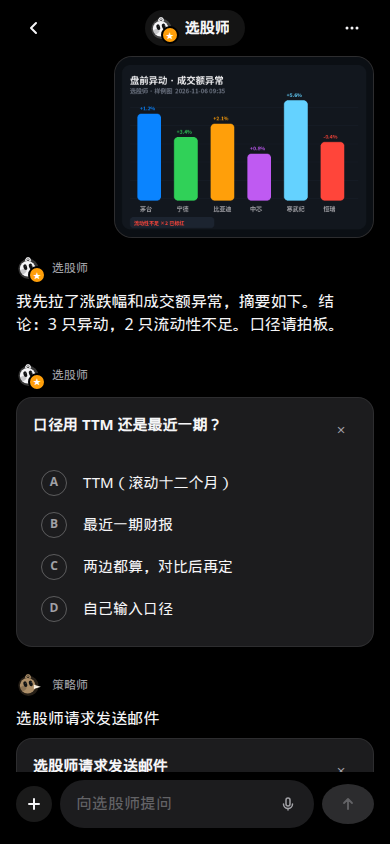
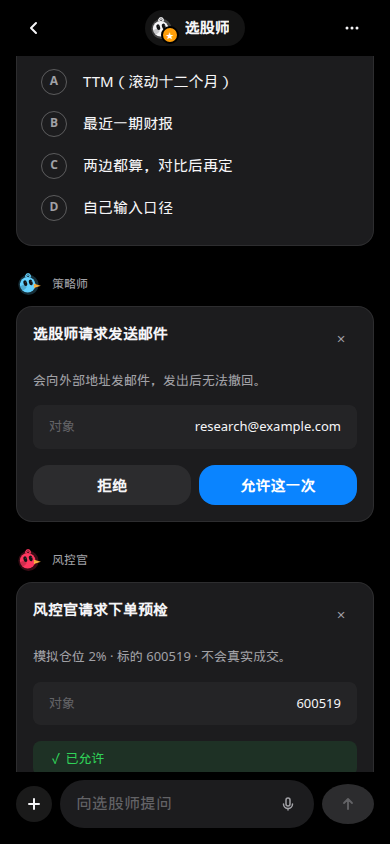
fix: 审批卡标题不再在气泡里重复一遍
正文如果只是卡片的 title 或 prompt，就只留在卡片上。手机对话截图滚到审批卡完整可见。

diff --git a/apps/web/app.js b/apps/web/app.js
@@ -477,9 +477,8 @@ function renderRoomMessage(event) {
   const bubble = el('div', { class: 'bubble bubble-bot' })
   const text = typeof event.payload.text === 'string' ? event.payload.text.trim() : ''
   const parts = Array.isArray(event.payload.parts) ? event.payload.parts : []
-  const choice = parts.find((part) => part && part.type === 'choice')
-  const question = choice && typeof choice.prompt === 'string' ? choice.prompt.trim() : ''
-  if (text !== '' && text !== question) bubble.append(markdownFragment(event.payload.text))
+  const titles = cardTitles(parts)
+  if (text !== '' && !titles.includes(text)) bubble.append(markdownFragment(event.payload.text))
   if (bubble.childNodes.length > 0) article.append(bubble)
   appendRichParts(article, event, false)
   if (!hasImagePart(event.payload)) {
@@ -490,6 +489,17 @@ function renderRoomMessage(event) {
 }
 
 const CHOICE_LETTERS = ['A', 'B', 'C', 'D', 'E', 'F', 'G', 'H']
+
+/** 卡片标题已经画在卡片上。正文如果只是同一句话，就不再画一条气泡。 */
+function cardTitles(parts) {
+  const titles = []
+  for (const part of parts) {
+    if (!part || typeof part !== 'object') continue
+    if (typeof part.title === 'string' && part.title.trim() !== '') titles.push(part.title.trim())
+    if (typeof part.prompt === 'string' && part.prompt.trim() !== '') titles.push(part.prompt.trim())
+  }
+  return titles
+}
 
 function hasImagePart(payload) {
   return Array.isArray(payload?.parts) && payload.parts.some((part) => part && part.type === 'image')
